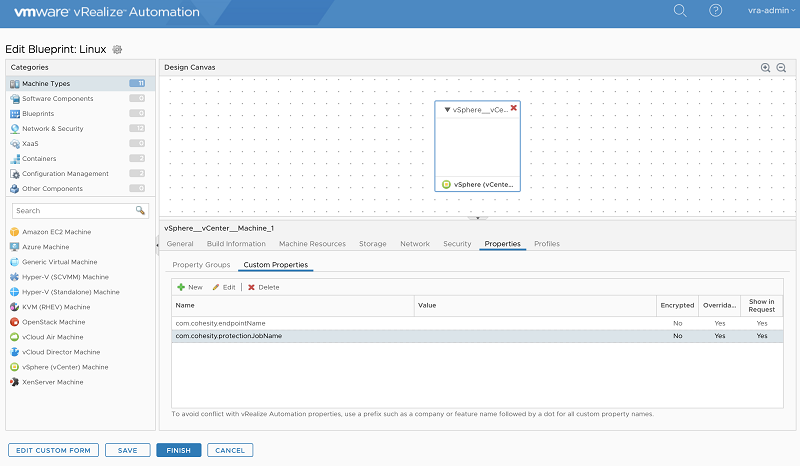
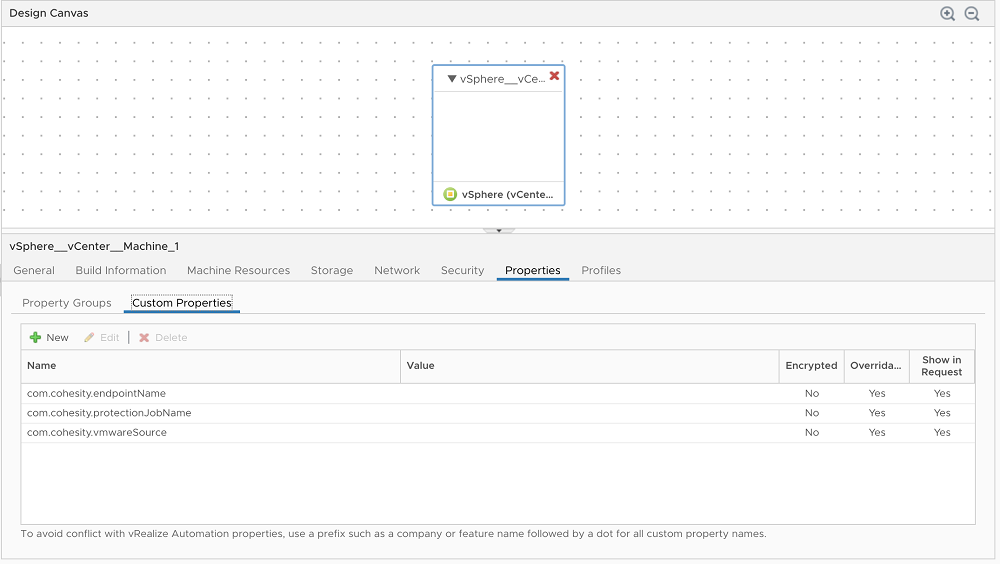
Documentation Changes for v1.0.5

diff --git a/README.md b/README.md
@@ -25,10 +25,13 @@ The plugin provides a list of workflows that you can access on the **Workflows**
 |                          | Clone Virtual Machine                                |
 |                          | Move VM to new Protection Job                        |
 |                          | Remove VM/Physical server from Protection Job        |
+|                          | Remove VM Tag from Protection Job                    |
 |                          | Delete Protection Job                                |
 |                          | Restore Virtual Machine                              |
 |                          | Run Protection Job on Demand                         |
+|                          | Generate Reports                                     |
 |                          | Recover Files or Folders                             |
+|                          | Upgrade Cohesity Agent                               |
 
 ### Features
 
@@ -65,7 +68,9 @@ A snapshot of the overall process involved in using the Cohesity vRO plugin is a
 
 | Version | What's New                                                   | Revision Date |
 | ------- | ------------------------------------------------------------ | ------------- |
-| v1.0.4  | This release introduces new workflows to add/remove protection source, add/remove physical server to/from protection job and create/delete protection jobs. | Aug 2019      |
+| v1.0.5  | This release introduces new workflows to Remove VM Tag from Protection Job and to Generate Reports. | Nov 2019      |
+| v1.0.4  | This release introduces the ability to upgrade the Cohesity agent on physical sources. This release also included minor bug fixes. | Oct 2019      |
+| v1.0.3  | This release introduces new workflows to add/remove protection source, add/remove physical server to/from protection job and create/delete protection jobs. | Aug 2019      |
 | v1.0.2  | Second Draft of vRO plugin documentation. The document has been updated with the current procedures to execute workflows. | May 2019      |
 | v1.0.1  | First draft released.                                        | Nov 2018      |
 
@@ -227,7 +232,7 @@ This section describes the details to import the XAAS blueprints.
 
 ##### Procedure
 
-1. Download the Cohesity vRA Blueprint file available in the [releases](https://github.com/cohesity/cohesity-vra-blueprints/releases) section as vRA_Blueprint_{version}.zip.
+1. Download the Cohesity vRA Blueprint file available in the [repository](https://github.com/cohesity/cohesity-vra-blueprints/tree/master/build).  
 2. Launch Cloud Client instance on your local system by executing `bin/cloudclient.bat (for windows) or bin/cloudclient.sh for OSX / Linux`.
    The following screen is displayed.
    ![cloudclient](docs/images/CloudClient.png)
@@ -260,9 +265,9 @@ This section describes the steps you need to perform to configure vRA property d
 3. In the **Design Canvas** page, click the vSphere machine component (highlighted on the top of the page) and click the **Properties** tab. Add the property group **Subscription Cycle**.
    ![Blueprint](docs/images/Blueprint_Cohesity.png)
 4. Click the **Custom Properties** tab.
-5. Add *com.cohesity.endpointName* and *com.cohesity.protectionJobName* and then set **Show in Request** to **Yes**.
-6. Click **SAVE** to save the changes.
+5. Add *com.cohesity.endpointName*, *com.cohesity.protectionJobName*, and *com.cohesity.vmwareSource*, and then set **Show in Request** to **Yes**.
    ![EditBlueprint](docs/images/EditBlueprint.png)
+6. Click **SAVE** to save the changes.
 
 #### Configuring Event Subscription
 
@@ -337,11 +342,15 @@ You can execute the following actions in the Day-2 workflows. These workflows ca
 | [Removing a Protection Source](#removing-a-protection-source) (XAAS) | This section describes the details to remove a VMware or a physical server as a protection source. |
 | [Removing Physical Server from Protection Job](#removing-physical-server-from-protection-job) (XAAS) | This section describes the details to to remove a physical server instance from its protection job. |
 | [Removing a VM from a Protection Job](#removing-a-vm-from-a-protection-job) (XAAS) | This section describes the details to remove a VM from a protection job. |
+| [Removing VM Tag from Protection Job](#removing-vm-tag-from-protection-job) | This section describes the details to unprotect the associated VMware tags. |
 | [Deleting a Protection Job](#deleting-a-protection-job) (XAAS) | This section describes the details to delete a protection job object. |
 | [Restoring a Virtual Machine](#restoring-a-virtual-machine) (XAAS) | This section describes the details to restore a Virtual Machine. |
 | [Executing a Protection Job on Demand](#executing-a-protection-job-on-demand) (XAAS) | This section describes the details to run a protection job on demand. |
 | [Recovering Files or Folders](#recovering-files-or-folders) (XAAS) | This section describes the details to recover a file or a folder. |
+| [Upgrading Cohesity Agent](#upgrading-cohesity-agent) (XAAS) | This section describes the details to upgrade a Cohesity Agent. |
+| [Generating Reports](#generating-reports) (XAAS)             | This section describes the details to email reports.         |
 | [Executing a Protection Job on Demand](#executing-a-protection-job-on-demand-as-resource-action) (Resource Action) | This section describes the details to run a protection job as a Resource Action in vRA. |
+
 
 **Note**: The steps to execute a protection job on demand as a XAAS and a resource action has been captured in this section. All the other workflows can also be similarly executed either as a XAAS or a resource action. 
 
@@ -441,18 +450,23 @@ To add an unprotected VM to a protection job:
 
 1. In the Catalog Dashboard, click **REQUEST** on **Add Unprotected VM to Protection Job**. 
    ![addvm](docs/images/AddVM1.png)
-2. Select the **Cohesity Endpoint** from the drop down list.
-3. In the **Cohesity Parameters** tab, select the **vCenter** from the drop down and select the specific **Virtual Machines** from the list by moving it from the left pane to the right. 
+2. From the **Endpoint Config** tab, select the **Cohesity Endpoint** from the drop down list.
+3. Click **Cohesity Parameters** tab, and select the **vCenter** from the drop down and select the specific **Virtual Machines** to be protected by moving the VMs from left to right pane. 
    **Note**: In the drop down list for Virtual Machines, only the unprotected VMs are displayed. 
-4. Choose to create a **New Protection Job** by selecting **Yes/No**. 
+4. You can also choose to select the **Protect VMware Tags** option. On selecting this option, the VMware tags that are not used by any other protection job are displayed. 
+   **Note**:  
+   - The VMware tags are displayed only if it is assigned to at least one or more VMs. Unassigned VM tags will not be displayed. 
+   - You can also choose to select only the VMware tags and not select any Virtual Machines from the list. 
+   - If you select the Virtual Machines and not select the VMware tags, then only the selected VMs will be protected and the tags will not be protected. 
+5. Choose to create a **New Protection Job** by selecting **Yes/No**. 
    If you have selected Yes, then a new tab **Protection Job Config** is displayed. 
    ![unprotectedvmparams](docs/images/addunprotectedvm_1.png)
-5. Configure all the parameters to create a new job, click **Advanced Configurations** to proceed and complete all the configurations.
+6. Configure all the parameters to create a new job, click **Advanced Configurations** to proceed and complete all the configurations.
    ![params](docs/images/Beforeadvanced.png) 
    ![advancedconfig](docs/images/addunprotectedvm_2.png)
-6. To select from existing Protection jobs, choose **No** for **Create New Protection Job** and select the corresponding job from the drop down.
+7. To select from existing Protection jobs, choose **No** for **Create New Protection Job** and select the corresponding job from the drop down.
    ![ifNochosen](docs/images/dropdownselection.png)
-7. Click **Submit**.
+8. Click **Submit**.
    You can monitor the progress of the request in the **Deployments** tab.
 
 ### Cloning a Virtual Machine
@@ -479,7 +493,7 @@ You can move a VM to a new protection job as follows.
 1. In the Catalog Dashboard, click **REQUEST** on **Move VM to New Protection Job**.
    ![MoveVMtoNewProtectionJob](docs/images/MoveVMtoNewProtectionJobXAAS.png)
 2. Select the **Cohesity Endpoint** from the drop down list.
-3. Select the Cohesity Parameters such as **Virtual Machine**, its **Current Protection Job**, and the **New Protection Job** it must be assigned to. 
+3. Under the Cohesity Parameters section, choose the **vCenter** instance, **Virtual Machine**, the **Current Protection Job**, and **New Protection Job** it must be assigned to. 
    **Note**: In the drop down list for Virtual Machines, only the protected VMs are displayed.
    ![moveVMtonewprotectionjobparams](docs/images/movevmtonewprotectedXAAS2.png)
 4. Click **Submit**. 
@@ -527,11 +541,35 @@ To remove a VM from a Protection Job:
 
 1. In the Catalog Dashboard, click **REQUEST** on **Remove VM from Protection Job**.
    ![RemoveVMfromProjectionJob](docs/images/removeVMfromProtectionJObXAAS.png)
+   
 2. Select the **Cohesity Endpoint** from the drop down list.
-3. Select the Cohesity Parameters such as **Virtual Machine** and the corresponding **Protection Job**. 
+3. Under the Cohesity Parameters section, choose an appropriate **vCenter** instance, a **Virtual Machine** and the corresponding **Protection Job**. 
    **Note**: In the drop down list for Virtual Machines, only the protected VMs are displayed.
+
+3. Select the Cohesity Parameters such as **Virtual Machine** and the corresponding **Protection Job**. 
    ![removeVMfromprotectionjobparams](docs/images/removeVMfromprotectionjobparams.png)
+   
+   **Note** 
+   
+- In the drop down list for Virtual Machines, only the protected VMs are displayed.
+   - If there is a Protection job protecting a single VM, then that VM cannot be unprotected. 
+   
 4. Click **Submit**.
+
+### Removing VM Tag from Protection Job
+
+##### Procedure (XAAS)
+
+To unprotect the VMware tags:
+
+1. In the Catalog Dashboard, click **REQUEST** on **Remove VM Tag from Protection Job**.
+   ![](docs/images/removevmtag.png)
+2. Select the **Cohesity Endpoint** from the drop down list.
+3. Under **Select Cohesity Parameters**, select the **vCenter** from the drop down list. 
+4. Choose the specific tags from the **Tag Node**. On selecting the tag, the protection job that is protecting the tags will be automatically displayed. 
+   **Note**: Only the tags assigned to VMs will be displayed here. 
+   ![](docs/images/removevmwaretags.png)
+5. Click **Submit**.
 
 ### Deleting a Protection Job
 
@@ -613,6 +651,51 @@ To recover a file or folder:
           4. In the **Email Content** field, model text is auto populated in HTML format and you can edit it as per the need.
 10. Click **Submit** to start the workflow execution.
      **Note**: The VM must be powered on for the workflow execution to be successful.
+
+### Upgrading Cohesity Agent
+
+##### Procedure (XAAS)
+
+To upgrade a Cohesity Agent:
+
+1. In the Catalog Dashboard, click **REQUEST** on **Upgrade Cohesity Agent**.
+   ![](docs/images/upgradecohesityagent.png)
+
+2. Select the **Cohesity Endpoint** from the drop down list.
+
+3. Select the **Physical Machine**.
+
+   The physical machines already registered will be displayed in the list. The **Status** and the **Upgradability** of the agent are updated accordingly. The Status reflects the current status of the agent and the upgradability indicates if the agent can be upgraded to any newer version available.   
+   ![](docs/images/upgradeagent_params.png)
+
+4. If multiple option is selected, then multiple physical machines can be added.
+   **Note**: The **Status** and the **Upgradability** fields will not be available when multiple option is selected. 
+   ![](docs/images/Upgrademultiple.png)
+
+5. Click **Submit**.
+**Note**: Status of the agent upgrade request cannot be monitored through the workflow if multiple physical sources are selected.
+
+### Generating Reports
+
+##### Procedure (XAAS)
+
+To generate a report that provides an overview of the protection jobs:
+
+1. In the Catalog Dashboard, click **REQUEST** on **Generate Report**.
+   ![](docs/images/generatereport.png)
+2. Select the **Cohesity Connection** which is the cluster from where the report must be generated. 
+3. Under **Report Filters**, configure the **Email  Recipients** IDs to which the generated report will be emailed. 
+4. Specify the format of the generated report (html, csv).
+   **Note**: If CSV is specified, then the generated report will be sent as an attachment in the email. 
+5. Choose the specific **Registered Source**. 
+   Note: If left blank, all the registered sources in that cluster will be considered.
+6. Choose any specific Protection Job or if left blank, all the protection jobs will be considered.  
+7. Specify the Report Time Span.
+   **Note**: If you configure a value of 7, then starting from the current day, the report will be generated for the time span of the last seven days. 
+   ![](docs/images/generatedreportparams.png)
+8. Click **Submit**.
+   On success, the report will be emailed to the specified Email ID. 
+
 
 ### Executing a Protection Job on Demand as Resource Action
 
